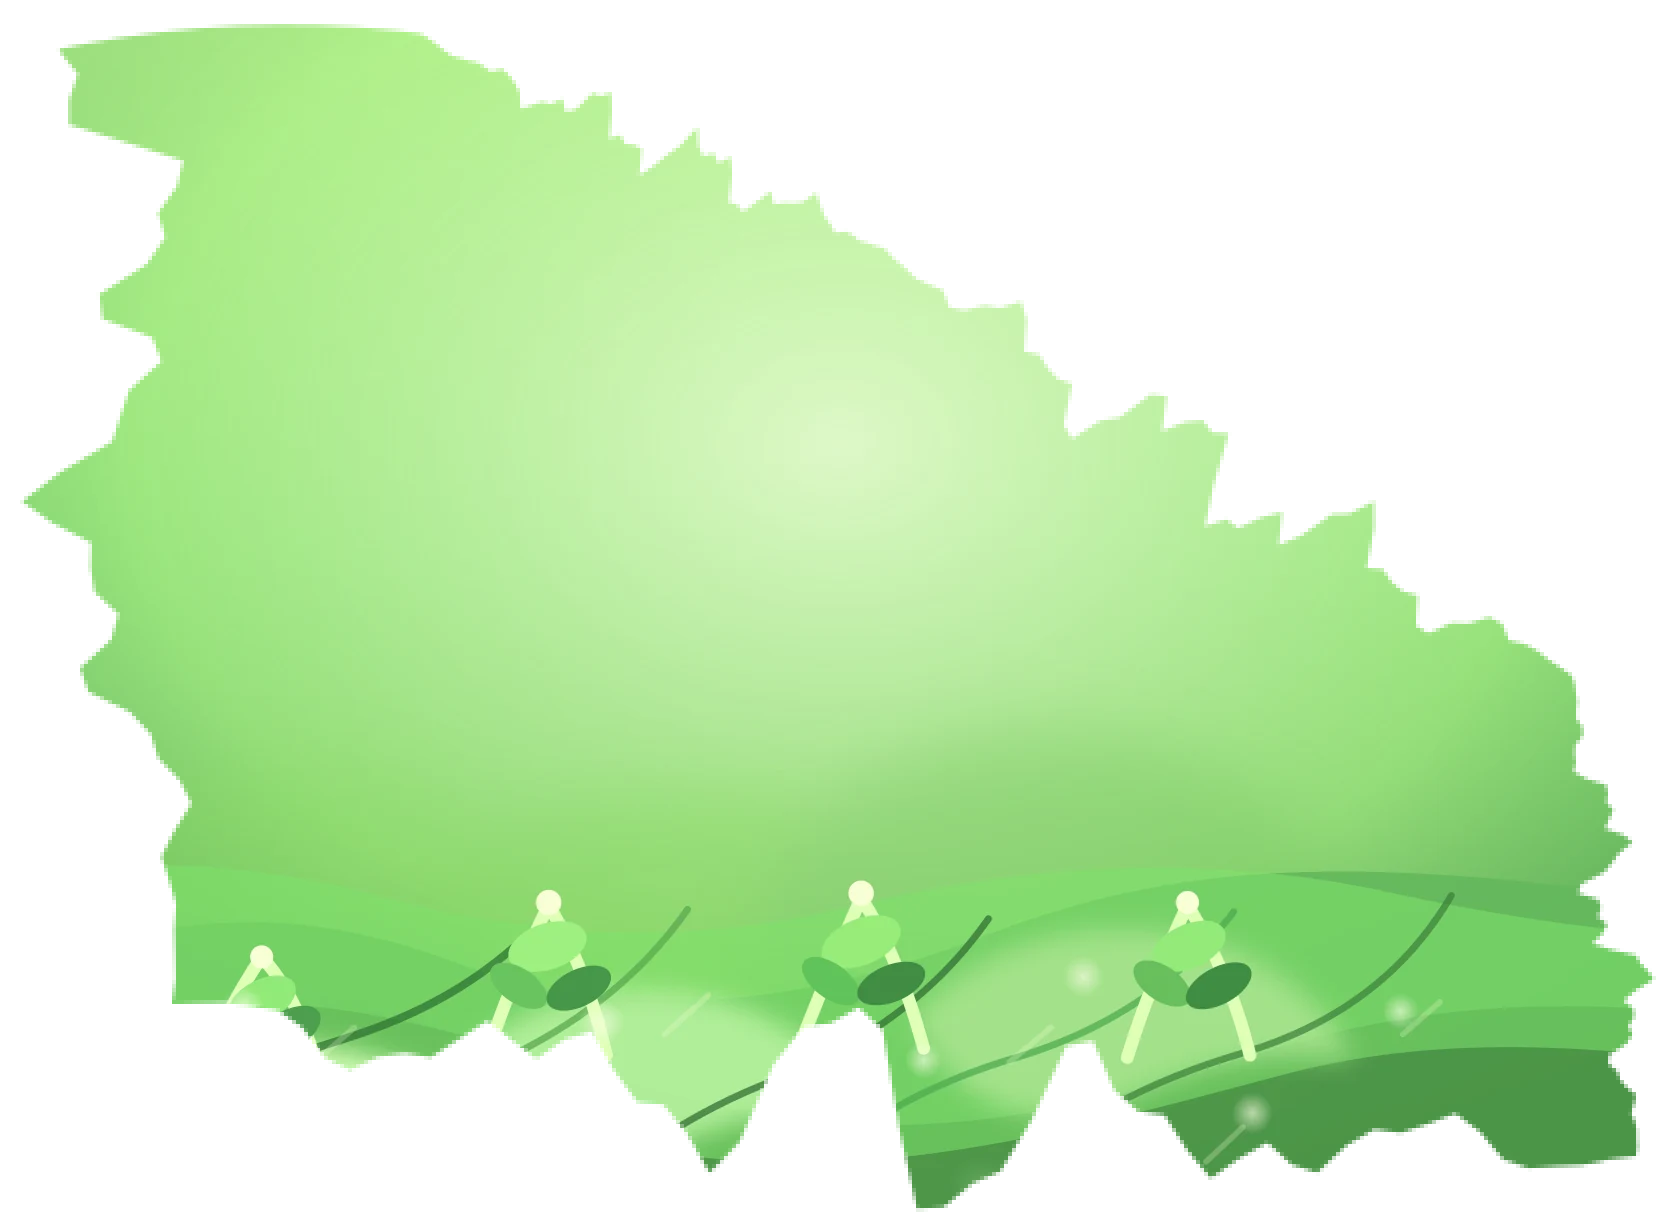
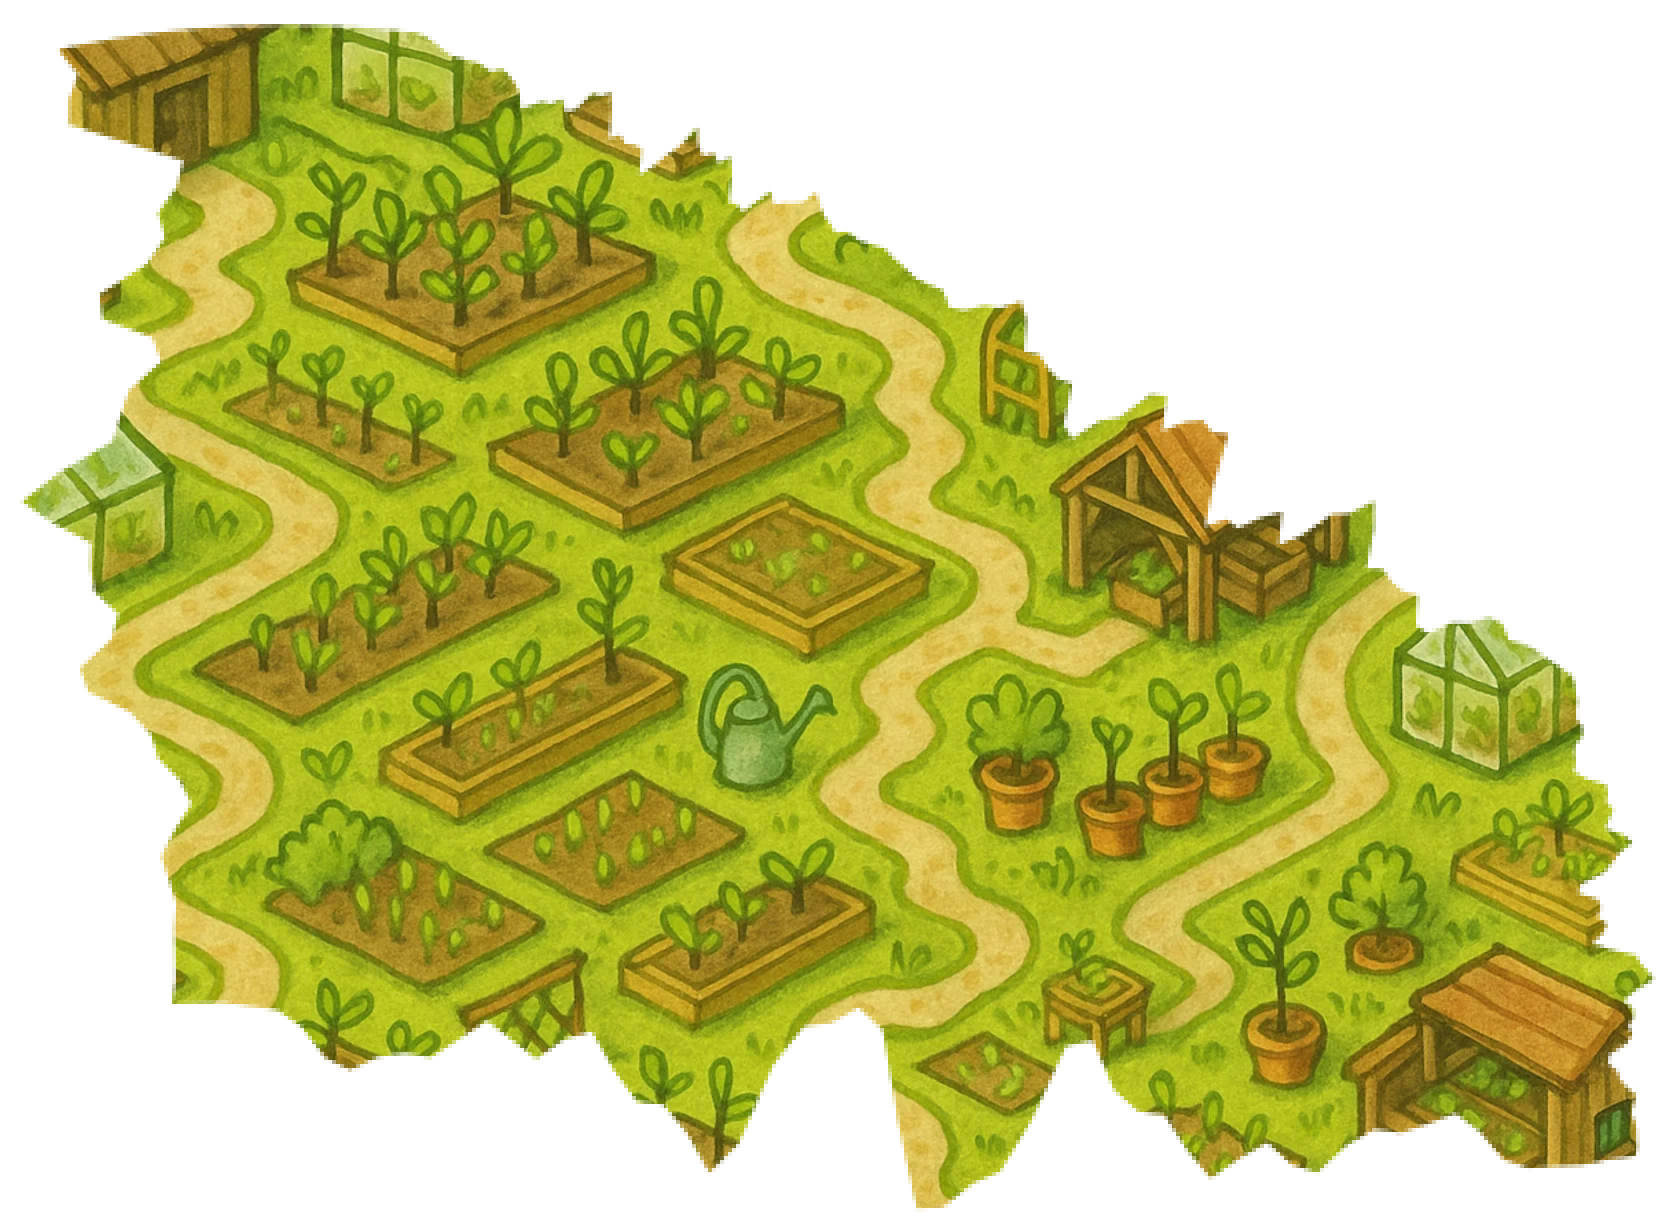
feat: paint the Nursery in the Magic Maze district style
- Add a the-nursery entry to the regionDirections map in
  generate-town-region-art-prompts.mjs (palette + nursery motifs:
  greenhouses, seedling beds, sprouting saplings, potting sheds,
  raised garden boxes, watering cans, trellises) so the district
  finally gets a proper Magic Maze prompt instead of none.
- Regenerate the per-district art prompt and add a the-nursery.tti.json
  ganglia-studio config used to generate the painted tile (gpt-image-1).
- Re-bake the painted tile through apply-town-district-art into a
  polygon-shaped the-nursery.png and regenerate the render webp,
  replacing the flat hand-authored solid-green placeholder art.

diff --git a/STATUS.md b/STATUS.md
@@ -1,5 +1,12 @@
 # Status
 
+## Done (2026-06-01) - Nursery Painted In The Magic Maze Style
+
+- Replaced The Nursery's hand-authored solid-green placeholder art with AI-painted Magic Maze diorama art, matching the other seven districts.
+- Root cause: `the-nursery` was missing from the `regionDirections` map in `scripts/generate-town-region-art-prompts.mjs`, so the district never got a proper Magic Maze prompt or generated art. Added a nursery palette/motifs entry (greenhouses, seedling beds, sprouting saplings, potting sheds, raised garden boxes, watering cans, trellises) and regenerated the prompt.
+- Generated the painted tile via ganglia-studio (`gpt-image-1`, 1536x1024) from the new prompt, then shaped it through `apply-town-district-art` into the district polygon and regenerated render assets.
+- Validation: layout check passed, shaped art confirmed (PNG 96% transparent), and the live map now shows The Nursery with dense painted garden/nursery detail instead of a flat green block. `activate && sm swab --json --output-file .slopmop/last_swab.json` passed before commit.
+
 ## Done (2026-06-01) - Nursery Moved South With Painted Background
 
 - Moved The Nursery back to the open land south of Dogwallow Ramble II (no overlap with neighbors) by restoring its southern vertices, while keeping the shared north border aligned to Slop Wharf and Dogwallow.
